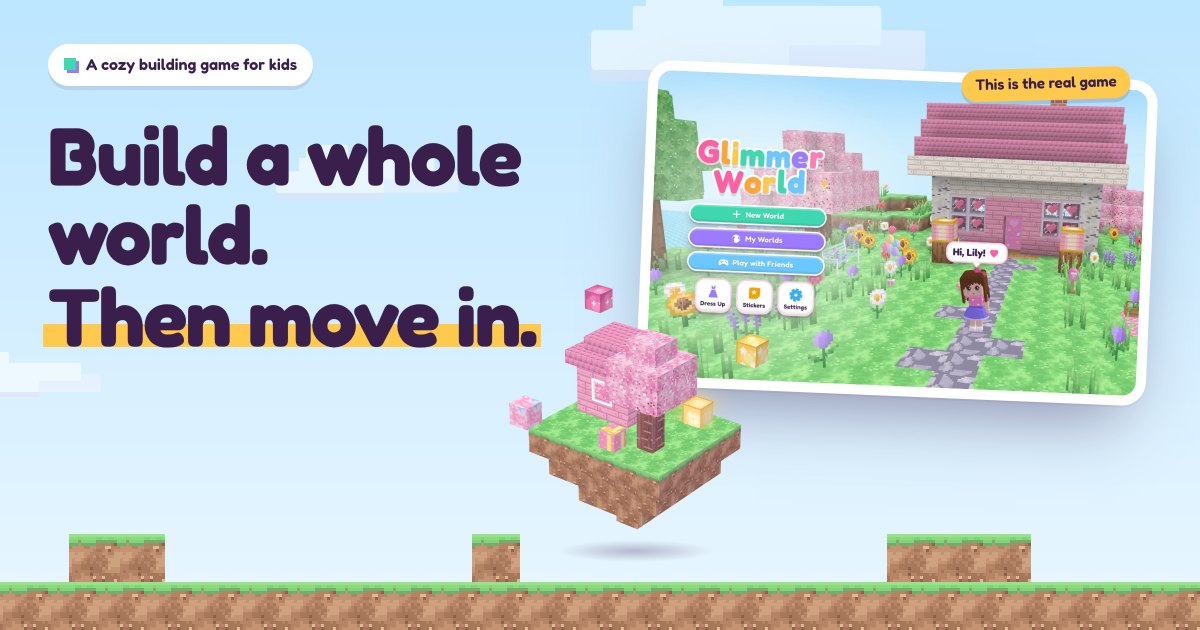
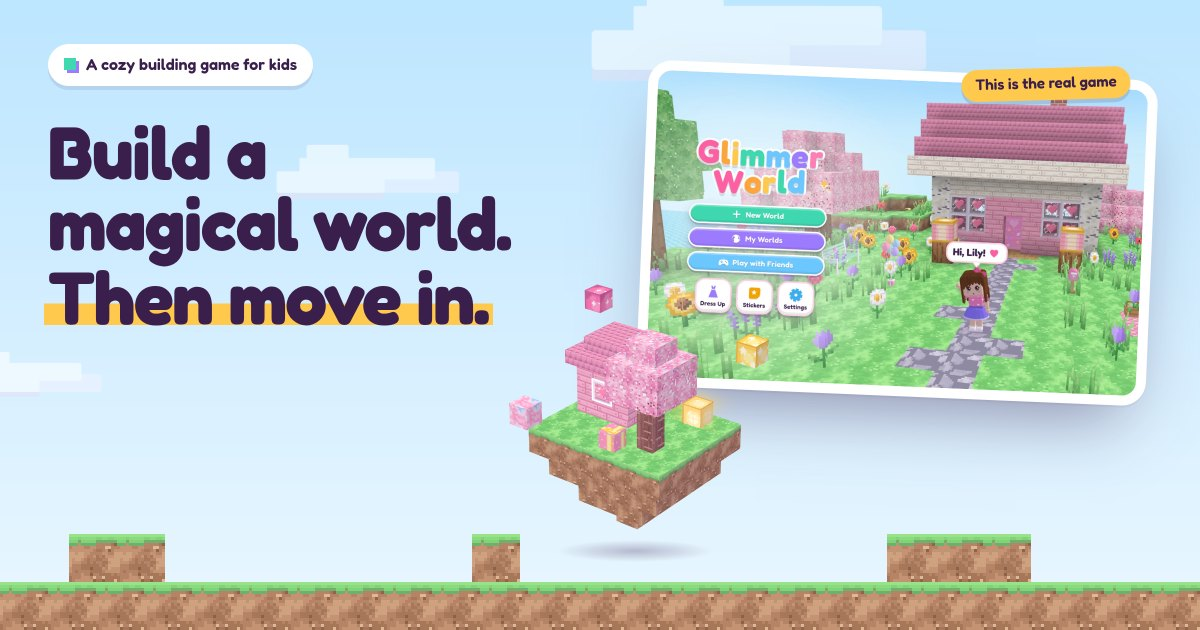
Glimmer World site: "Build a magical world. Then move in."
The tagline changes everywhere: the home page headline (Build a / magical world. / Then move
in.), every footer, the link preview's description and picture (img/share.jpg, made again
by site-shots with a 74 px headline so it keeps three lines) and its alt text.

Claude-Session: https://claude.ai/code/session_01SufxAHP6BGsSAXn8h8vBkW

Changed region(s): [[0.0308, 0.181, 0.4625, 0.573]]

diff --git a/sparkle-world/site/index.html b/sparkle-world/site/index.html
@@ -9,7 +9,7 @@
 <meta property="og:type" content="website">
 <meta property="og:site_name" content="Glimmer World">
 <meta property="og:title" content="Glimmer World">
-<meta property="og:description" content="Build a whole world. Then move in. A cozy block-building game for kids, right in the browser.">
+<meta property="og:description" content="Build a magical world. Then move in. A cozy block-building game for kids, right in the browser.">
 <!-- share-tags: tools/site-build.mjs writes og:url, og:image and twitter:card here when RAILWAY_PUBLIC_DOMAIN is set -->
 <link rel="icon" href="img/pics/heart.svg" type="image/svg+xml">
 <link rel="apple-touch-icon" href="img/icon-180.png">
@@ -50,7 +50,7 @@
   <div class="wrap hero-grid">
     <div class="hero-copy">
       <p class="kicker"><span class="pip" aria-hidden="true"></span>A cozy building game for kids</p>
-      <h1 id="hero-title" class="display"><span class="l">Build a whole</span> <span class="l">world.</span> <em>Then move in.</em></h1>
+      <h1 id="hero-title" class="display"><span class="l">Build a</span> <span class="l">magical world.</span> <em>Then move in.</em></h1>
       <p class="lede">Glimmer World is a soft, pastel world made of blocks. Build a house, fill it with really nice beds and everything else, dress up, adopt a unicorn, and invite a friend over with a secret code made of pictures.</p>
       <div class="cta-row">
         <a class="btn btn-play" href="/play"><svg viewBox="0 0 24 24" aria-hidden="true"><path d="M8 5.5v13a1 1 0 0 0 1.5.86l10.4-6.5a1 1 0 0 0 0-1.72L9.5 4.64A1 1 0 0 0 8 5.5Z"/></svg>Play now</a>
@@ -580,7 +580,7 @@
   <div class="wrap foot-grid">
     <div>
       <span class="logo logo--small" aria-hidden="true"><span style="--c:#FF5FA2">G</span><span style="--c:#FFA43B">l</span><span style="--c:#FFC94D">i</span><span style="--c:#3FD8B0">m</span><span style="--c:#6CC6FF">m</span><span style="--c:#9C7BFF">e</span><span style="--c:#FF7EB6">r</span> <span style="--c:#FF5FA2">W</span><span style="--c:#FFA43B">o</span><span style="--c:#FFC94D">r</span><span style="--c:#3FD8B0">l</span><span style="--c:#6CC6FF">d</span></span>
-      <p class="foot-love">Build a whole world. Then move in.</p>
+      <p class="foot-love">Build a magical world. Then move in.</p>
     </div>
     <nav class="foot-links" aria-label="More">
       <a href="/play">Play now</a>

diff --git a/sparkle-world/site/parents.html b/sparkle-world/site/parents.html
@@ -200,7 +200,7 @@
   <div class="wrap foot-grid">
     <div>
       <span class="logo logo--small" aria-hidden="true"><span style="--c:#FF5FA2">G</span><span style="--c:#FFA43B">l</span><span style="--c:#FFC94D">i</span><span style="--c:#3FD8B0">m</span><span style="--c:#6CC6FF">m</span><span style="--c:#9C7BFF">e</span><span style="--c:#FF7EB6">r</span> <span style="--c:#FF5FA2">W</span><span style="--c:#FFA43B">o</span><span style="--c:#FFC94D">r</span><span style="--c:#3FD8B0">l</span><span style="--c:#6CC6FF">d</span></span>
-      <p class="foot-love">Build a whole world. Then move in.</p>
+      <p class="foot-love">Build a magical world. Then move in.</p>
     </div>
     <nav class="foot-links" aria-label="More">
       <a href="/play">Play now</a>

diff --git a/sparkle-world/site/privacy.html b/sparkle-world/site/privacy.html
@@ -210,7 +210,7 @@
   <div class="wrap foot-grid">
     <div>
       <span class="logo logo--small" aria-hidden="true"><span style="--c:#FF5FA2">G</span><span style="--c:#FFA43B">l</span><span style="--c:#FFC94D">i</span><span style="--c:#3FD8B0">m</span><span style="--c:#6CC6FF">m</span><span style="--c:#9C7BFF">e</span><span style="--c:#FF7EB6">r</span> <span style="--c:#FF5FA2">W</span><span style="--c:#FFA43B">o</span><span style="--c:#FFC94D">r</span><span style="--c:#3FD8B0">l</span><span style="--c:#6CC6FF">d</span></span>
-      <p class="foot-love">Build a whole world. Then move in.</p>
+      <p class="foot-love">Build a magical world. Then move in.</p>
     </div>
     <nav class="foot-links" aria-label="More">
       <a href="/play">Play now</a>

diff --git a/sparkle-world/site/terms.html b/sparkle-world/site/terms.html
@@ -162,7 +162,7 @@
   <div class="wrap foot-grid">
     <div>
       <span class="logo logo--small" aria-hidden="true"><span style="--c:#FF5FA2">G</span><span style="--c:#FFA43B">l</span><span style="--c:#FFC94D">i</span><span style="--c:#3FD8B0">m</span><span style="--c:#6CC6FF">m</span><span style="--c:#9C7BFF">e</span><span style="--c:#FF7EB6">r</span> <span style="--c:#FF5FA2">W</span><span style="--c:#FFA43B">o</span><span style="--c:#FFC94D">r</span><span style="--c:#3FD8B0">l</span><span style="--c:#6CC6FF">d</span></span>
-      <p class="foot-love">Build a whole world. Then move in.</p>
+      <p class="foot-love">Build a magical world. Then move in.</p>
     </div>
     <nav class="foot-links" aria-label="More">
       <a href="/play">Play now</a>

diff --git a/sparkle-world/site/account.html b/sparkle-world/site/account.html
@@ -52,7 +52,7 @@
   <div class="wrap foot-grid">
     <div>
       <span class="logo logo--small" aria-hidden="true"><span style="--c:#FF5FA2">G</span><span style="--c:#FFA43B">l</span><span style="--c:#FFC94D">i</span><span style="--c:#3FD8B0">m</span><span style="--c:#6CC6FF">m</span><span style="--c:#9C7BFF">e</span><span style="--c:#FF7EB6">r</span> <span style="--c:#FF5FA2">W</span><span style="--c:#FFA43B">o</span><span style="--c:#FFC94D">r</span><span style="--c:#3FD8B0">l</span><span style="--c:#6CC6FF">d</span></span>
-      <p class="foot-love">Build a whole world. Then move in.</p>
+      <p class="foot-love">Build a magical world. Then move in.</p>
     </div>
     <nav class="foot-links" aria-label="More">
       <a href="/play">Play now</a>

diff --git a/sparkle-world/site/account/verify.html b/sparkle-world/site/account/verify.html
@@ -48,7 +48,7 @@
   <div class="wrap foot-grid">
     <div>
       <span class="logo logo--small" aria-hidden="true"><span style="--c:#FF5FA2">G</span><span style="--c:#FFA43B">l</span><span style="--c:#FFC94D">i</span><span style="--c:#3FD8B0">m</span><span style="--c:#6CC6FF">m</span><span style="--c:#9C7BFF">e</span><span style="--c:#FF7EB6">r</span> <span style="--c:#FF5FA2">W</span><span style="--c:#FFA43B">o</span><span style="--c:#FFC94D">r</span><span style="--c:#3FD8B0">l</span><span style="--c:#6CC6FF">d</span></span>
-      <p class="foot-love">Build a whole world. Then move in.</p>
+      <p class="foot-love">Build a magical world. Then move in.</p>
     </div>
     <nav class="foot-links" aria-label="More">
       <a href="/play">Play now</a>
